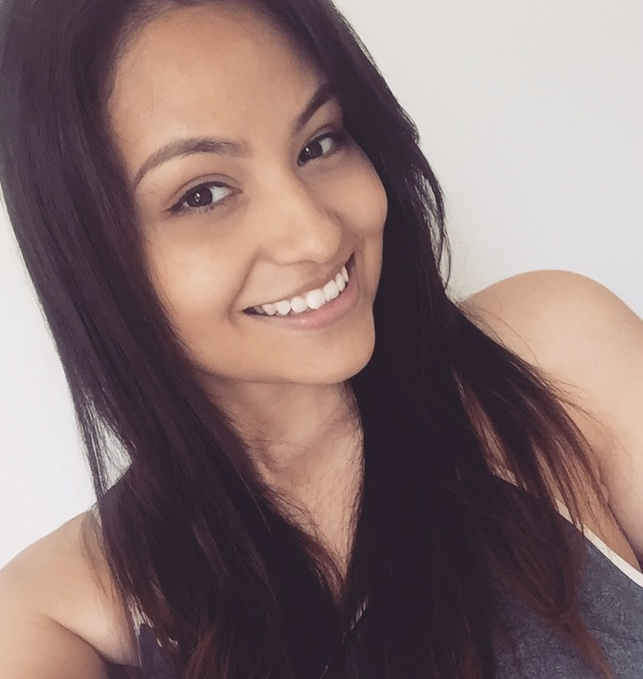
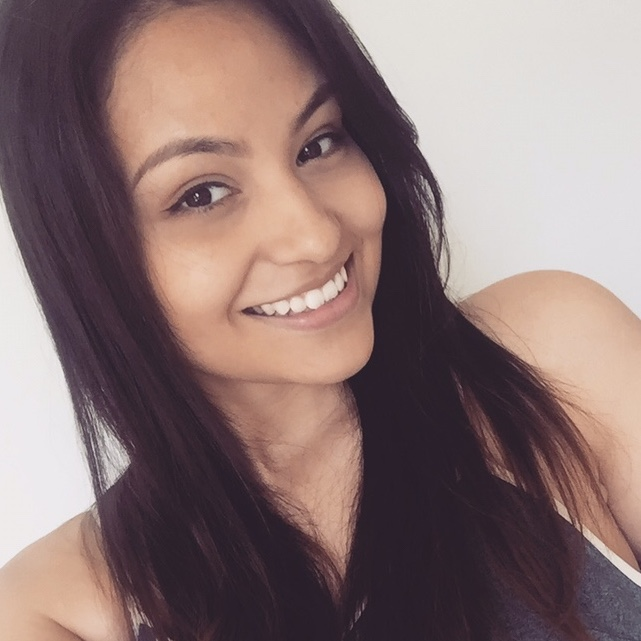
Crop images to squares

diff --git a/css/styles.min.css b/css/styles.min.css
@@ -1,1 +1,1 @@
-@import url(https://fonts.googleapis.com/css?family=Open+Sans:300italic,400italic,600italic,700italic,800italic,400,300,600,700,800);@import url(https://fonts.googleapis.com/css?family=Merriweather:400,300,400italic,300italic,700,700italic);@import url(https://fonts.googleapis.com/css?family=Nunito:400,300,700);@import url(https://fonts.googleapis.com/css?family=Cedarville+Cursive);p{font-size:15px;line-height:29px;color:rgba(12,23,36,0.9);padding-bottom:20px}h1{font-size:60px}h2{font-size:40px;font-weight:300;color:#3D4351}h3{color:#3D4351;font-size:18px;font-weight:700;text-transform:uppercase;letter-spacing:3px;line-height:29px}h4{font-size:18px}h5{font-size:15px;color:#3D4351;text-transform:uppercase;font-weight:500}.btn{font-size:13px;border:solid 2px;-moz-border-radius:40px;-webkit-border-radius:40px;border-radius:40px;display:inline-block;text-transform:uppercase}.btn:hover,.btn:focus{color:#fff;border-color:#186b6b;background-color:#186b6b}.btn-white{font-size:13px;border:solid 2px;-moz-border-radius:40px;-webkit-border-radius:40px;border-radius:40px;display:inline-block;border-color:#fff}.btn-dark{font-size:13px;border:solid 2px;-moz-border-radius:40px;-webkit-border-radius:40px;border-radius:40px;display:inline-block;border-color:rgba(12,23,36,0.9)}.btn-white:hover,.btn-white:focus{color:#186b6b;border-color:#186b6b}.btn-dark:hover,.btn-dark:focus{color:#186b6b;border-color:#186b6b}.btn-fill{color:#fff;border:solid 2px #186b6b;-moz-border-radius:40px;-webkit-border-radius:40px;border-radius:40px;display:inline-block;text-transform:uppercase;background-color:#186b6b}.btn-fill:hover,.btn-fill:focus{color:#fff;background-color:#a2eeee;border-color:#a2eeee}.btn-small{padding:8px 30px}.btn-large{padding:15px 40px}.btn-margin-right{margin-right:20px}section.intro,section.features-extra,section.rsvp{background:#fff}section.features,section.events,section.blog{background:#f8f9fd}.group:after{content:"";display:table;clear:both}.no-padding{padding:0}.no-margin{margin:0}a{color:#186b6b;-webkit-transition-timing-function:ease;transition-timing-function:ease;-webkit-transition-duration:200ms;transition-duration:200ms;-webkit-transition-property:color, border-color, background-color;transition-property:color, border-color, background-color}a:hover,a:focus{color:#a2eeee;text-decoration:none}body{font-family:"Open Sans",sans-serif;font-weight:300;color:rgba(12,23,36,0.9);-webkit-text-size-adjust:100%}*:focus{outline:none !important}ul,ol{margin:0;padding:0}ul li{list-style:none}section .header{padding-bottom:30px}.section-padding{padding:40px 0}.section-border{border-bottom:1px solid #E6E9EA}.tooltip{position:absolute;z-index:1070;display:block;font-family:"Helvetica Neue", Helvetica, Arial, sans-serif;font-size:12px;font-weight:normal;line-height:1.4;visibility:visible;filter:alpha(opacity=0);opacity:0}.tooltip.in{filter:alpha(opacity=90);opacity:.9}.tooltip.top{padding:5px 0;margin-top:-3px}.tooltip.right{padding:0 5px;margin-left:3px}.tooltip.bottom{padding:5px 0;margin-top:3px}.tooltip.left{padding:0 5px;margin-left:-3px}.tooltip-inner{max-width:200px;padding:3px 8px;color:#fff;text-align:center;text-decoration:none;text-transform:capitalize;background-color:#000;border-radius:4px}.pulse2{animation-name:pulse2;animation-duration:1s;animation-iteration-count:infinite;animation-timing-function:linear}@keyframes pulse2{0%{transform:scale(1.1)}50%{transform:scale(0.8)}100%{transform:scale(1)}}.floating-arrow{animation-name:floating-arrow;animation-duration:2s;animation-iteration-count:infinite;animation-timing-function:ease-in-out}@keyframes floating-arrow{from{transform:translate(-50%, 0)}65%{transform:translate(-50%, 15px)}to{transform:translate(-50%, 0)}}.floating-logo{animation-name:floating-logo;animation-duration:2s;animation-iteration-count:infinite;animation-timing-function:ease-in-out}@keyframes floating-logo{from{transform:translate(-50%, 0)}50%{transform:translate(-50%, 10px)}to{transform:translate(-50%, 0)}}.wp1,.wp2,.wp3,.wp4,.wp5,.wp6,.wp7,.wp8,.wp9{visibility:hidden}.wp8,.wp9{-webkit-animation-delay:0.3s;animation-delay:0.3s}.bounceInLeft,.bounceInRight,.fadeInUp,.fadeInUpDelay,.fadeInDown,.fadeInUpD,.fadeInLeft,.fadeInRight,.bounceInDown{visibility:visible}.header-nav.open{visibility:visible;opacity:0.9;-webkit-transition:opacity 0.5s;transition:opacity 0.5s}.nav-toggle{position:absolute;top:0;right:15px;z-index:999999;padding:10px 35px 16px 0;cursor:pointer}.nav-toggle:focus{outline:none}.nav-toggle span,.nav-toggle span:before,.nav-toggle span:after{content:"";position:absolute;display:block;width:35px;height:3px;-moz-border-radius:1px;-webkit-border-radius:1px;border-radius:1px;background:#000000;cursor:pointer}.fixed .nav-toggle span,.fixed .nav-toggle span:before,.fixed .nav-toggle span:after{background:#ffffff}.nav-toggle span:before{top:-10px}.nav-toggle span:after{bottom:-10px}.nav-toggle span,.nav-toggle span:before,.nav-toggle span:after{-moz-transition:all 300ms ease-in-out;-o-transition:all 300ms ease-in-out;-webkit-transition:all 300ms ease-in-out;transition:all 300ms ease-in-out}.nav-toggle.active span{background-color:transparent}.nav-toggle.active span:before,.nav-toggle.active span:after{top:0;background-color:#ffffff}.nav-toggle.active span:before{-moz-transform:rotate(45deg);-ms-transform:rotate(45deg);-o-transform:rotate(45deg);-webkit-transform:rotate(45deg);transform:rotate(45deg)}.nav-toggle.active span:after{top:10px;-moz-transform:translatey(-10px) rotate(-45deg);-ms-transform:translatey(-10px) rotate(-45deg);-o-transform:translatey(-10px) rotate(-45deg);-webkit-transform:translatey(-10px) rotate(-45deg);transform:translatey(-10px) rotate(-45deg)}.navicon{position:absolute;height:26px;right:10px;top:48px;visibility:hidden;transition:all 300ms ease-in-out}.hero{min-height:750px;background:url("../img/hero-min.jpg") center center;-webkit-background-size:cover;-moz-background-size:cover;-o-background-size:cover;background-size:cover;position:relative}.hero .down-arrow a{color:#fff}.hero h1{color:#fff;margin-bottom:40px}.hero p.intro{color:#fff;font-size:20px;font-weight:300;margin-bottom:80px}.hero .hero-content{padding-top:40%}.hero .hero-content img{width:55%;margin-bottom:12%;margin-top:10%}.navigation{transition:all 300ms ease-in-out;position:fixed;width:100%;z-index:999}.fixed{position:fixed;background-color:rgba(12,23,36,0.9);z-index:999;width:100%}.fixed a{color:#fff}header{padding:50px 0;border-bottom:solid 1px rgba(255,255,255,0.2);position:relative;width:1170px;margin:0 auto;transition:padding 300ms ease-in-out}header a{color:rgba(12,23,36,0.9);text-transform:uppercase;font-size:13px}header a.login{margin-right:20px}header .logo{display:inline-block}header .logo img{height:42px;width:42px}header ul.primary-nav{margin:0 0 0 75px;padding:0}header ul.primary-nav li{display:inline}header ul.primary-nav li a{padding-right:25px}header ul.primary-nav li a:hover{color:#a2eeee}header ul.primary-nav li:last-child a{padding-right:0px}header ul.member-actions li{display:inline}header ul.member-actions li a:hover{color:#a2eeee}header .header-nav{display:inline-block}header .member-actions{position:absolute;right:0;top:41px;transition:all 300ms ease-in-out}.down-arrow{color:#fff;font-size:30px;position:absolute;bottom:30px;left:50%;transform:translateX(-50%)}.share-bar{margin-top:20px}.intro span.icon{font-size:40px;color:#186b6b;font-weight:bold}.intro-icon{display:inline-block;vertical-align:top;padding:6px 0 0 0;margin-right:20px;width:40px}.intro-content{display:inline-block;width:80%}#intro{padding-top:40px}#intro img{width:100%;height:auto}#intro img.meet-pic{margin-bottom:10px;width:100%;height:200px;object-fit:cover;object-position:center;border-radius:4px}#intro img.meet-pic.top{object-position:top}#intro img.meet-pic.bottom{object-position:bottom}#intro img.meet-pic.center{object-position:center}#intro .small-meet-img-container{display:flex;flex-direction:row;flex-wrap:wrap}#intro .small-meet-img-container .fancybox{flex:1;margin:1px}#intro .small-meet-img-container .img-wrap{margin-top:30px;position:relative;overflow:hidden;border-radius:4px}#intro .small-meet-img-container .img-wrap img{border-radius:4px;width:100px;height:66.66667px;object-fit:cover;object-position:center}#intro .small-meet-img-container .img-wrap .overlay{position:absolute;width:100%;height:100%;background-color:rgba(255,255,255,0.5);-moz-transition:all 300ms ease-in-out;-o-transition:all 300ms ease-in-out;-webkit-transition:all 300ms ease-in-out;transition:all 300ms ease-in-out;-ms-filter:"progid:DXImageTransform.Microsoft.Alpha(Opacity=0)";filter:alpha(opacity=0);opacity:0}#intro .small-meet-img-container .img-wrap i{color:#fff;font-size:15px;position:absolute;width:15px;height:15px;top:6px;right:6px}#intro .small-meet-img-container .img-wrap:hover img,#intro .small-meet-img-container .img-wrap:focus img{-moz-transform:scale(1.1);-ms-transform:scale(1.1);-o-transform:scale(1.1);-webkit-transform:scale(1.1);transform:scale(1.1)}#intro .small-meet-img-container .img-wrap:hover .overlay,#intro .small-meet-img-container .img-wrap:focus .overlay{-ms-filter:"progid:DXImageTransform.Microsoft.Alpha(Opacity=1)";filter:alpha(opacity=1);opacity:1;z-index:9}#intro p{text-align:center}.features{position:relative}.features p{margin-bottom:0;padding-bottom:0}.features h3{margin:0 0 20px 0}.features span.icon{font-size:35px;color:#186b6b;font-weight:bold}.features .feature-icon{display:inline-block;vertical-align:top;padding:6px 0 0 0;margin-right:20px;width:35px}.features .feature-content{display:inline-block;width:75%}.features .intro-icon{display:inline-block;vertical-align:top;padding:6px 0 0 0;margin-right:20px}.features .intro-content{display:inline-block;width:80%}.features ul.features-stack{margin-top:50px}.features ul.features-stack li{margin-top:20px;padding-bottom:20px;border-bottom:solid 1px #E6E9EA}.features ul.features-stack li:last-child{padding-bottom:0px;border-bottom:none}.features .ipad-wrap{width:706px;height:1002px;background:url("../img/ipad-device.png") no-repeat center center;z-index:1}.features .iphone-wrap{width:304px;height:620px;background:url("../img/iphone6.png") no-repeat center center;position:absolute;left:530px;bottom:129px;z-index:2}.features .device-showcase{position:absolute;bottom:-365px;right:61%}.features .responsive-feature-img,.features-extra .responsive-feature-img{display:none}.devices{position:relative}.features-extra{position:relative;z-index:3}.features-extra .btn{margin-top:20px}.features-extra .macbook-wrap{position:absolute;width:916px;height:540px;background:url("../img/macbook-pro.png") no-repeat center center;top:114px;z-index:4;left:50%}.hero-strip{margin-top:120px;background:#333844 url("../img/polygonal-bg.jpg") no-repeat center center;padding-bottom:190px;position:relative}.hero-strip i{font-family:"Nunito",sans-serif;font-weight:300;font-size:25px;color:#F69D52;vertical-align:top;margin-left:-8px;font-style:normal}.hero-strip h2{color:#fff;margin:0 0 20px 0}.hero-strip p{color:#ACB1B4}.hero-strip .btn{margin-top:10px}.hero-strip .logo-placeholder{width:230px;height:230px;position:absolute;bottom:-285px;left:50%;transform:translateX(-50%)}.wedding-party .party-card{margin-bottom:30px}.wedding-party .party-card .party-img{width:100%;height:400px;object-fit:cover;object-position:center}.wedding-party .party-card .party-img.top{object-position:top}.wedding-party .party-card .party-img.bottom{object-position:bottom}.wedding-party .party-card .party-img.center{object-position:center}.wedding-party .party-card .party-name{font-family:'Cedarville Cursive', cursive;text-transform:none;margin-bottom:0;color:rgba(12,23,36,0.9);font-size:17pt}.wedding-party .party-card .party-title{font-size:8pt;margin-bottom:0;padding-bottom:0;color:#3D4351}.events .leftcol{padding-right:100px;border-right:solid 1px #E6E9EA}.events .rightcol{padding-left:100px}.events .time{font-size:13px;font-style:italic;text-transform:lowercase;color:rgba(12,23,36,0.9)}.blog{padding-bottom:120px}.blog img{width:100%;height:auto;-moz-transition:all 300ms ease-in-out;-o-transition:all 300ms ease-in-out;-webkit-transition:all 300ms ease-in-out;transition:all 300ms ease-in-out}.blog h2{font-size:11px;color:#ACB1B4;font-weight:500;text-transform:uppercase;margin-top:35px}.blog .btn{margin-top:20px}.blog .blog-img-wrap{position:relative;overflow:hidden}.blog .blog-img-wrap .overlay{position:absolute;width:100%;height:100%;background-color:rgba(255,255,255,0.5);-moz-transition:all 300ms ease-in-out;-o-transition:all 300ms ease-in-out;-webkit-transition:all 300ms ease-in-out;transition:all 300ms ease-in-out;-ms-filter:"progid:DXImageTransform.Microsoft.Alpha(Opacity=0)";filter:alpha(opacity=0);opacity:0}.blog .blog-img-wrap i{color:#fff;font-size:20px;position:absolute;width:20px;height:20px;top:25px;right:35px}.blog .blog-img-wrap:hover img,.blog .blog-img-wrap:focus img{-moz-transform:scale(1.1);-ms-transform:scale(1.1);-o-transform:scale(1.1);-webkit-transform:scale(1.1);transform:scale(1.1)}.blog .blog-img-wrap:hover .overlay,.blog .blog-img-wrap:focus .overlay{-ms-filter:"progid:DXImageTransform.Microsoft.Alpha(Opacity=1)";filter:alpha(opacity=1);opacity:1;z-index:9}.blog figcaption i{margin-left:5px;font-size:15px}.blog figcaption a.blog-post-title{color:rgba(12,23,36,0.9)}.blog figcaption a.blog-post-title:hover,.blog figcaption a.blog-post-title:focus{color:#3D4351}#instagram img{width:100%}#eng-pics img{width:100%;height:auto;-moz-transition:all 300ms ease-in-out;-o-transition:all 300ms ease-in-out;-webkit-transition:all 300ms ease-in-out;transition:all 300ms ease-in-out}#eng-pics .img-wrap{margin-top:30px;position:relative;overflow:hidden;border-radius:4px}#eng-pics .img-wrap .overlay{position:absolute;width:100%;height:100%;background-color:rgba(255,255,255,0.5);-moz-transition:all 300ms ease-in-out;-o-transition:all 300ms ease-in-out;-webkit-transition:all 300ms ease-in-out;transition:all 300ms ease-in-out;-ms-filter:"progid:DXImageTransform.Microsoft.Alpha(Opacity=0)";filter:alpha(opacity=0);opacity:0}#eng-pics .img-wrap i{color:#fff;font-size:15px;position:absolute;width:15px;height:15px;top:6px;right:6px}#eng-pics .img-wrap:hover img,#eng-pics .img-wrap:focus img{-moz-transform:scale(1.1);-ms-transform:scale(1.1);-o-transform:scale(1.1);-webkit-transform:scale(1.1);transform:scale(1.1)}#eng-pics .img-wrap:hover .overlay,#eng-pics .img-wrap:focus .overlay{-ms-filter:"progid:DXImageTransform.Microsoft.Alpha(Opacity=1)";filter:alpha(opacity=1);opacity:1;z-index:9}#eng-pics .diamond{width:230px;height:230px;position:absolute;bottom:-145px;left:50%;transform:translateX(-50%);z-index:500}#eng-pics .ring{width:75px;height:75px;border-radius:75px;border:10px solid #d0d3d4;position:absolute;left:34%;top:75%;z-index:-1}#video-bg{height:300px}#video-bg .smokies{background-image:url("../img/smokies.jpg");height:300px}#video-bg .smokies .no-video-content{width:100%;height:100%;padding-top:100px;position:relative;text-align:center}#video-bg .smokies .no-video-content h5{color:#ffffff;font-size:30px;font-weight:300;letter-spacing:10px}#video-bg .smokies .no-video-content p{color:#ffffff}#video-content{width:100%;height:100%;padding-top:100px;position:relative;text-align:center}#video-content h5{color:#ffffff;font-size:30px;font-weight:300;letter-spacing:10px}#video-content p{color:#ffffff}#map-canvas{height:500px;width:100%}#map-content-wrapper{position:relative;margin-top:-502px;margin-bottom:150px}#map-content{margin-top:40px;padding:50px 60px;background:#fff;-webkit-transition:opacity 0.5s, visibility 0.6s, margin-top 0.5s;transition:opacity 0.5s, visibility 0.6s, margin-top 0.5s}#map-content .contact-info{align-items:center;display:flex;flex-direction:column}#btn-show-content{padding:20px;background:#fff;cursor:pointer;display:inline-block;-webkit-transition:opacity 0.5s, visibility 0.6s, margin-top 0.5s;transition:opacity 0.5s, visibility 0.6s, margin-top 0.5s}.toggle-map-content{opacity:0;visibility:hidden}.pointer-events-none{pointer-events:none}.pointer-events-auto{pointer-events:auto}.rsvp{padding-bottom:140px}.rsvp .rsvp-form .rsvp-btn,.rsvp .rsvp-form .rsvp-no-btn{padding:15px 0;border-radius:3px;font-size:13px}.rsvp .rsvp-form .rsvp-no-btn{background-color:#ff415c}.rsvp .rsvp-form .form-input-group{width:100%;height:55px;margin:0 auto 10px;-moz-border-radius:5px;-webkit-border-radius:5px;border-radius:5px;border:solid 1px #E6E9EA;text-align:left;position:relative}.rsvp .rsvp-form .form-input-group i{color:#186b6b;font-size:14px}.rsvp .rsvp-form .form-input-group i:after{content:"";height:30px;width:1px;border-right:solid 1px #E6E9EA;position:absolute;top:50%;left:30px;transform:translateY(-50%)}.rsvp .rsvp-form .form-input-group i.fa-user,.rsvp .rsvp-form .form-input-group i.fa-users,.rsvp .rsvp-form .form-input-group i.fa-envelope,.rsvp .rsvp-form .form-input-group .fa-key{font-size:14px;position:absolute;top:50%;transform:translateY(-50%);margin-left:20px}.rsvp .rsvp-form .form-input-group input{padding-left:68px;width:100%;height:100%;-moz-border-radius:6px;-webkit-border-radius:6px;border-radius:6px;border:none}.rsvp .rsvp-form .form-input-group input::-webkit-input-placeholder{color:#BCC1C3}.rsvp .rsvp-form .form-input-group input:-moz-placeholder{color:#BCC1C3}.rsvp .rsvp-form .form-input-group input::-moz-placeholder{color:#BCC1C3}.rsvp .rsvp-form .form-input-group input:-ms-input-placeholder{color:#BCC1C3}.registry .registry-link-container .registry-img{height:100px}footer .content{border-top:1px solid #E6E9EA;padding-bottom:20px}footer .to-top-wrapper{font-size:30px;display:block;cursor:pointer;margin:-25px auto 50px;border-radius:50%;width:50px;height:50px;border:1px solid #E6E9EA;background:#fff}footer .to-top-wrapper .to-top{display:block;-webkit-transition:all .3s ease-in-out;-moz-transition:all .3s ease-in-out;-ms-transition:all .3s ease-in-out;-o-transition:all .3s ease-in-out;transition:all .3s ease-in-out}footer .to-top-wrapper .to-top:hover{margin-top:-5px}footer span.fa-heart{color:#ff415c;font-size:18px;margin:0 2px}body.modal-open{padding-right:0 !important}.modal-body{padding:25px}
+@import url(https://fonts.googleapis.com/css?family=Open+Sans:300italic,400italic,600italic,700italic,800italic,400,300,600,700,800);@import url(https://fonts.googleapis.com/css?family=Merriweather:400,300,400italic,300italic,700,700italic);@import url(https://fonts.googleapis.com/css?family=Nunito:400,300,700);@import url(https://fonts.googleapis.com/css?family=Cedarville+Cursive);p{font-size:15px;line-height:29px;color:rgba(12,23,36,0.9);padding-bottom:20px}h1{font-size:60px}h2{font-size:40px;font-weight:300;color:#3D4351}h3{color:#3D4351;font-size:18px;font-weight:700;text-transform:uppercase;letter-spacing:3px;line-height:29px}h4{font-size:18px}h5{font-size:15px;color:#3D4351;text-transform:uppercase;font-weight:500}.btn{font-size:13px;border:solid 2px;-moz-border-radius:40px;-webkit-border-radius:40px;border-radius:40px;display:inline-block;text-transform:uppercase}.btn:hover,.btn:focus{color:#fff;border-color:#186b6b;background-color:#186b6b}.btn-white{font-size:13px;border:solid 2px;-moz-border-radius:40px;-webkit-border-radius:40px;border-radius:40px;display:inline-block;border-color:#fff}.btn-dark{font-size:13px;border:solid 2px;-moz-border-radius:40px;-webkit-border-radius:40px;border-radius:40px;display:inline-block;border-color:rgba(12,23,36,0.9)}.btn-white:hover,.btn-white:focus{color:#186b6b;border-color:#186b6b}.btn-dark:hover,.btn-dark:focus{color:#186b6b;border-color:#186b6b}.btn-fill{color:#fff;border:solid 2px #186b6b;-moz-border-radius:40px;-webkit-border-radius:40px;border-radius:40px;display:inline-block;text-transform:uppercase;background-color:#186b6b}.btn-fill:hover,.btn-fill:focus{color:#fff;background-color:#a2eeee;border-color:#a2eeee}.btn-small{padding:8px 30px}.btn-large{padding:15px 40px}.btn-margin-right{margin-right:20px}section.intro,section.features-extra,section.rsvp{background:#fff}section.features,section.events,section.blog{background:#f8f9fd}.group:after{content:"";display:table;clear:both}.no-padding{padding:0}.no-margin{margin:0}a{color:#186b6b;-webkit-transition-timing-function:ease;transition-timing-function:ease;-webkit-transition-duration:200ms;transition-duration:200ms;-webkit-transition-property:color, border-color, background-color;transition-property:color, border-color, background-color}a:hover,a:focus{color:#a2eeee;text-decoration:none}body{font-family:"Open Sans",sans-serif;font-weight:300;color:rgba(12,23,36,0.9);-webkit-text-size-adjust:100%}*:focus{outline:none !important}ul,ol{margin:0;padding:0}ul li{list-style:none}section .header{padding-bottom:30px}.section-padding{padding:40px 0}.section-border{border-bottom:1px solid #E6E9EA}.tooltip{position:absolute;z-index:1070;display:block;font-family:"Helvetica Neue", Helvetica, Arial, sans-serif;font-size:12px;font-weight:normal;line-height:1.4;visibility:visible;filter:alpha(opacity=0);opacity:0}.tooltip.in{filter:alpha(opacity=90);opacity:.9}.tooltip.top{padding:5px 0;margin-top:-3px}.tooltip.right{padding:0 5px;margin-left:3px}.tooltip.bottom{padding:5px 0;margin-top:3px}.tooltip.left{padding:0 5px;margin-left:-3px}.tooltip-inner{max-width:200px;padding:3px 8px;color:#fff;text-align:center;text-decoration:none;text-transform:capitalize;background-color:#000;border-radius:4px}.pulse2{animation-name:pulse2;animation-duration:1s;animation-iteration-count:infinite;animation-timing-function:linear}@keyframes pulse2{0%{transform:scale(1.1)}50%{transform:scale(0.8)}100%{transform:scale(1)}}.floating-arrow{animation-name:floating-arrow;animation-duration:2s;animation-iteration-count:infinite;animation-timing-function:ease-in-out}@keyframes floating-arrow{from{transform:translate(-50%, 0)}65%{transform:translate(-50%, 15px)}to{transform:translate(-50%, 0)}}.floating-logo{animation-name:floating-logo;animation-duration:2s;animation-iteration-count:infinite;animation-timing-function:ease-in-out}@keyframes floating-logo{from{transform:translate(-50%, 0)}50%{transform:translate(-50%, 10px)}to{transform:translate(-50%, 0)}}.wp1,.wp2,.wp3,.wp4,.wp5,.wp6,.wp7,.wp8,.wp9{visibility:hidden}.wp8,.wp9{-webkit-animation-delay:0.3s;animation-delay:0.3s}.bounceInLeft,.bounceInRight,.fadeInUp,.fadeInUpDelay,.fadeInDown,.fadeInUpD,.fadeInLeft,.fadeInRight,.bounceInDown{visibility:visible}.header-nav.open{visibility:visible;opacity:0.9;-webkit-transition:opacity 0.5s;transition:opacity 0.5s}.nav-toggle{position:absolute;top:0;right:15px;z-index:999999;padding:10px 35px 16px 0;cursor:pointer}.nav-toggle:focus{outline:none}.nav-toggle span,.nav-toggle span:before,.nav-toggle span:after{content:"";position:absolute;display:block;width:35px;height:3px;-moz-border-radius:1px;-webkit-border-radius:1px;border-radius:1px;background:#000000;cursor:pointer}.fixed .nav-toggle span,.fixed .nav-toggle span:before,.fixed .nav-toggle span:after{background:#ffffff}.nav-toggle span:before{top:-10px}.nav-toggle span:after{bottom:-10px}.nav-toggle span,.nav-toggle span:before,.nav-toggle span:after{-moz-transition:all 300ms ease-in-out;-o-transition:all 300ms ease-in-out;-webkit-transition:all 300ms ease-in-out;transition:all 300ms ease-in-out}.nav-toggle.active span{background-color:transparent}.nav-toggle.active span:before,.nav-toggle.active span:after{top:0;background-color:#ffffff}.nav-toggle.active span:before{-moz-transform:rotate(45deg);-ms-transform:rotate(45deg);-o-transform:rotate(45deg);-webkit-transform:rotate(45deg);transform:rotate(45deg)}.nav-toggle.active span:after{top:10px;-moz-transform:translatey(-10px) rotate(-45deg);-ms-transform:translatey(-10px) rotate(-45deg);-o-transform:translatey(-10px) rotate(-45deg);-webkit-transform:translatey(-10px) rotate(-45deg);transform:translatey(-10px) rotate(-45deg)}.navicon{position:absolute;height:26px;right:10px;top:48px;visibility:hidden;transition:all 300ms ease-in-out}.hero{min-height:750px;background:url("../img/hero-min.jpg") center center;-webkit-background-size:cover;-moz-background-size:cover;-o-background-size:cover;background-size:cover;position:relative}.hero .down-arrow a{color:#fff}.hero h1{color:#fff;margin-bottom:40px}.hero p.intro{color:#fff;font-size:20px;font-weight:300;margin-bottom:80px}.hero .hero-content{padding-top:40%}.hero .hero-content img{width:55%;margin-bottom:12%;margin-top:10%}.navigation{transition:all 300ms ease-in-out;position:fixed;width:100%;z-index:999}.fixed{position:fixed;background-color:rgba(12,23,36,0.9);z-index:999;width:100%}.fixed a{color:#fff}header{padding:50px 0;border-bottom:solid 1px rgba(255,255,255,0.2);position:relative;width:1170px;margin:0 auto;transition:padding 300ms ease-in-out}header a{color:rgba(12,23,36,0.9);text-transform:uppercase;font-size:13px}header a.login{margin-right:20px}header .logo{display:inline-block}header .logo img{height:42px;width:42px}header ul.primary-nav{margin:0 0 0 75px;padding:0}header ul.primary-nav li{display:inline}header ul.primary-nav li a{padding-right:25px}header ul.primary-nav li a:hover{color:#a2eeee}header ul.primary-nav li:last-child a{padding-right:0px}header ul.member-actions li{display:inline}header ul.member-actions li a:hover{color:#a2eeee}header .header-nav{display:inline-block}header .member-actions{position:absolute;right:0;top:41px;transition:all 300ms ease-in-out}.down-arrow{color:#fff;font-size:30px;position:absolute;bottom:30px;left:50%;transform:translateX(-50%)}.share-bar{margin-top:20px}.intro span.icon{font-size:40px;color:#186b6b;font-weight:bold}.intro-icon{display:inline-block;vertical-align:top;padding:6px 0 0 0;margin-right:20px;width:40px}.intro-content{display:inline-block;width:80%}#intro{padding-top:40px}#intro img{width:100%;height:auto}#intro img.meet-pic{margin-bottom:10px;width:100%;height:200px;object-fit:cover;object-position:center;border-radius:4px}#intro img.meet-pic.top{object-position:top}#intro img.meet-pic.bottom{object-position:bottom}#intro img.meet-pic.center{object-position:center}#intro .small-meet-img-container{display:flex;flex-direction:row;flex-wrap:wrap}#intro .small-meet-img-container .fancybox{flex:1;margin:1px}#intro .small-meet-img-container .img-wrap{margin-top:30px;position:relative;overflow:hidden;border-radius:4px}#intro .small-meet-img-container .img-wrap img{border-radius:4px;width:100px;height:66.66667px;object-fit:cover;object-position:center}#intro .small-meet-img-container .img-wrap .overlay{position:absolute;width:100%;height:100%;background-color:rgba(255,255,255,0.5);-moz-transition:all 300ms ease-in-out;-o-transition:all 300ms ease-in-out;-webkit-transition:all 300ms ease-in-out;transition:all 300ms ease-in-out;-ms-filter:"progid:DXImageTransform.Microsoft.Alpha(Opacity=0)";filter:alpha(opacity=0);opacity:0}#intro .small-meet-img-container .img-wrap i{color:#fff;font-size:15px;position:absolute;width:15px;height:15px;top:6px;right:6px}#intro .small-meet-img-container .img-wrap:hover img,#intro .small-meet-img-container .img-wrap:focus img{-moz-transform:scale(1.1);-ms-transform:scale(1.1);-o-transform:scale(1.1);-webkit-transform:scale(1.1);transform:scale(1.1)}#intro .small-meet-img-container .img-wrap:hover .overlay,#intro .small-meet-img-container .img-wrap:focus .overlay{-ms-filter:"progid:DXImageTransform.Microsoft.Alpha(Opacity=1)";filter:alpha(opacity=1);opacity:1;z-index:9}#intro p{text-align:center}.features{position:relative}.features p{margin-bottom:0;padding-bottom:0}.features h3{margin:0 0 20px 0}.features span.icon{font-size:35px;color:#186b6b;font-weight:bold}.features .feature-icon{display:inline-block;vertical-align:top;padding:6px 0 0 0;margin-right:20px;width:35px}.features .feature-content{display:inline-block;width:75%}.features .intro-icon{display:inline-block;vertical-align:top;padding:6px 0 0 0;margin-right:20px}.features .intro-content{display:inline-block;width:80%}.features ul.features-stack{margin-top:50px}.features ul.features-stack li{margin-top:20px;padding-bottom:20px;border-bottom:solid 1px #E6E9EA}.features ul.features-stack li:last-child{padding-bottom:0px;border-bottom:none}.features .ipad-wrap{width:706px;height:1002px;background:url("../img/ipad-device.png") no-repeat center center;z-index:1}.features .iphone-wrap{width:304px;height:620px;background:url("../img/iphone6.png") no-repeat center center;position:absolute;left:530px;bottom:129px;z-index:2}.features .device-showcase{position:absolute;bottom:-365px;right:61%}.features .responsive-feature-img,.features-extra .responsive-feature-img{display:none}.devices{position:relative}.features-extra{position:relative;z-index:3}.features-extra .btn{margin-top:20px}.features-extra .macbook-wrap{position:absolute;width:916px;height:540px;background:url("../img/macbook-pro.png") no-repeat center center;top:114px;z-index:4;left:50%}.hero-strip{margin-top:120px;background:#333844 url("../img/polygonal-bg.jpg") no-repeat center center;padding-bottom:190px;position:relative}.hero-strip i{font-family:"Nunito",sans-serif;font-weight:300;font-size:25px;color:#F69D52;vertical-align:top;margin-left:-8px;font-style:normal}.hero-strip h2{color:#fff;margin:0 0 20px 0}.hero-strip p{color:#ACB1B4}.hero-strip .btn{margin-top:10px}.hero-strip .logo-placeholder{width:230px;height:230px;position:absolute;bottom:-285px;left:50%;transform:translateX(-50%)}.wedding-party .party-card{margin-bottom:30px}.wedding-party .party-card .party-img{object-fit:cover;object-position:center}.wedding-party .party-card .party-img.top{object-position:top}.wedding-party .party-card .party-img.bottom{object-position:bottom}.wedding-party .party-card .party-img.center{object-position:center}.wedding-party .party-card .party-name{font-family:'Cedarville Cursive', cursive;text-transform:none;margin-bottom:0;color:rgba(12,23,36,0.9);font-size:17pt}.wedding-party .party-card .party-title{font-size:8pt;margin-bottom:0;padding-bottom:0;color:#3D4351}.events .leftcol{padding-right:100px;border-right:solid 1px #E6E9EA}.events .rightcol{padding-left:100px}.events .time{font-size:13px;font-style:italic;text-transform:lowercase;color:rgba(12,23,36,0.9)}.blog{padding-bottom:120px}.blog img{width:100%;height:auto;-moz-transition:all 300ms ease-in-out;-o-transition:all 300ms ease-in-out;-webkit-transition:all 300ms ease-in-out;transition:all 300ms ease-in-out}.blog h2{font-size:11px;color:#ACB1B4;font-weight:500;text-transform:uppercase;margin-top:35px}.blog .btn{margin-top:20px}.blog .blog-img-wrap{position:relative;overflow:hidden}.blog .blog-img-wrap .overlay{position:absolute;width:100%;height:100%;background-color:rgba(255,255,255,0.5);-moz-transition:all 300ms ease-in-out;-o-transition:all 300ms ease-in-out;-webkit-transition:all 300ms ease-in-out;transition:all 300ms ease-in-out;-ms-filter:"progid:DXImageTransform.Microsoft.Alpha(Opacity=0)";filter:alpha(opacity=0);opacity:0}.blog .blog-img-wrap i{color:#fff;font-size:20px;position:absolute;width:20px;height:20px;top:25px;right:35px}.blog .blog-img-wrap:hover img,.blog .blog-img-wrap:focus img{-moz-transform:scale(1.1);-ms-transform:scale(1.1);-o-transform:scale(1.1);-webkit-transform:scale(1.1);transform:scale(1.1)}.blog .blog-img-wrap:hover .overlay,.blog .blog-img-wrap:focus .overlay{-ms-filter:"progid:DXImageTransform.Microsoft.Alpha(Opacity=1)";filter:alpha(opacity=1);opacity:1;z-index:9}.blog figcaption i{margin-left:5px;font-size:15px}.blog figcaption a.blog-post-title{color:rgba(12,23,36,0.9)}.blog figcaption a.blog-post-title:hover,.blog figcaption a.blog-post-title:focus{color:#3D4351}#instagram img{width:100%}#eng-pics img{width:100%;height:auto;-moz-transition:all 300ms ease-in-out;-o-transition:all 300ms ease-in-out;-webkit-transition:all 300ms ease-in-out;transition:all 300ms ease-in-out}#eng-pics .img-wrap{margin-top:30px;position:relative;overflow:hidden;border-radius:4px}#eng-pics .img-wrap .overlay{position:absolute;width:100%;height:100%;background-color:rgba(255,255,255,0.5);-moz-transition:all 300ms ease-in-out;-o-transition:all 300ms ease-in-out;-webkit-transition:all 300ms ease-in-out;transition:all 300ms ease-in-out;-ms-filter:"progid:DXImageTransform.Microsoft.Alpha(Opacity=0)";filter:alpha(opacity=0);opacity:0}#eng-pics .img-wrap i{color:#fff;font-size:15px;position:absolute;width:15px;height:15px;top:6px;right:6px}#eng-pics .img-wrap:hover img,#eng-pics .img-wrap:focus img{-moz-transform:scale(1.1);-ms-transform:scale(1.1);-o-transform:scale(1.1);-webkit-transform:scale(1.1);transform:scale(1.1)}#eng-pics .img-wrap:hover .overlay,#eng-pics .img-wrap:focus .overlay{-ms-filter:"progid:DXImageTransform.Microsoft.Alpha(Opacity=1)";filter:alpha(opacity=1);opacity:1;z-index:9}#eng-pics .diamond{width:230px;height:230px;position:absolute;bottom:-145px;left:50%;transform:translateX(-50%);z-index:500}#eng-pics .ring{width:75px;height:75px;border-radius:75px;border:10px solid #d0d3d4;position:absolute;left:34%;top:75%;z-index:-1}#video-bg{height:300px}#video-bg .smokies{background-image:url("../img/smokies.jpg");height:300px}#video-bg .smokies .no-video-content{width:100%;height:100%;padding-top:100px;position:relative;text-align:center}#video-bg .smokies .no-video-content h5{color:#ffffff;font-size:30px;font-weight:300;letter-spacing:10px}#video-bg .smokies .no-video-content p{color:#ffffff}#video-content{width:100%;height:100%;padding-top:100px;position:relative;text-align:center}#video-content h5{color:#ffffff;font-size:30px;font-weight:300;letter-spacing:10px}#video-content p{color:#ffffff}#map-canvas{height:500px;width:100%}#map-content-wrapper{position:relative;margin-top:-502px;margin-bottom:150px}#map-content{margin-top:40px;padding:50px 60px;background:#fff;-webkit-transition:opacity 0.5s, visibility 0.6s, margin-top 0.5s;transition:opacity 0.5s, visibility 0.6s, margin-top 0.5s}#map-content .contact-info{align-items:center;display:flex;flex-direction:column}#btn-show-content{padding:20px;background:#fff;cursor:pointer;display:inline-block;-webkit-transition:opacity 0.5s, visibility 0.6s, margin-top 0.5s;transition:opacity 0.5s, visibility 0.6s, margin-top 0.5s}.toggle-map-content{opacity:0;visibility:hidden}.pointer-events-none{pointer-events:none}.pointer-events-auto{pointer-events:auto}.rsvp{padding-bottom:140px}.rsvp .rsvp-form .rsvp-btn,.rsvp .rsvp-form .rsvp-no-btn{padding:15px 0;border-radius:3px;font-size:13px}.rsvp .rsvp-form .rsvp-no-btn{background-color:#ff415c}.rsvp .rsvp-form .form-input-group{width:100%;height:55px;margin:0 auto 10px;-moz-border-radius:5px;-webkit-border-radius:5px;border-radius:5px;border:solid 1px #E6E9EA;text-align:left;position:relative}.rsvp .rsvp-form .form-input-group i{color:#186b6b;font-size:14px}.rsvp .rsvp-form .form-input-group i:after{content:"";height:30px;width:1px;border-right:solid 1px #E6E9EA;position:absolute;top:50%;left:30px;transform:translateY(-50%)}.rsvp .rsvp-form .form-input-group i.fa-user,.rsvp .rsvp-form .form-input-group i.fa-users,.rsvp .rsvp-form .form-input-group i.fa-envelope,.rsvp .rsvp-form .form-input-group .fa-key{font-size:14px;position:absolute;top:50%;transform:translateY(-50%);margin-left:20px}.rsvp .rsvp-form .form-input-group input{padding-left:68px;width:100%;height:100%;-moz-border-radius:6px;-webkit-border-radius:6px;border-radius:6px;border:none}.rsvp .rsvp-form .form-input-group input::-webkit-input-placeholder{color:#BCC1C3}.rsvp .rsvp-form .form-input-group input:-moz-placeholder{color:#BCC1C3}.rsvp .rsvp-form .form-input-group input::-moz-placeholder{color:#BCC1C3}.rsvp .rsvp-form .form-input-group input:-ms-input-placeholder{color:#BCC1C3}.registry .registry-link-container .registry-img{height:100px}footer .content{border-top:1px solid #E6E9EA;padding-bottom:20px}footer .to-top-wrapper{font-size:30px;display:block;cursor:pointer;margin:-25px auto 50px;border-radius:50%;width:50px;height:50px;border:1px solid #E6E9EA;background:#fff}footer .to-top-wrapper .to-top{display:block;-webkit-transition:all .3s ease-in-out;-moz-transition:all .3s ease-in-out;-ms-transition:all .3s ease-in-out;-o-transition:all .3s ease-in-out;transition:all .3s ease-in-out}footer .to-top-wrapper .to-top:hover{margin-top:-5px}footer span.fa-heart{color:#ff415c;font-size:18px;margin:0 2px}body.modal-open{padding-right:0 !important}.modal-body{padding:25px}

diff --git a/sass/styles.scss b/sass/styles.scss
@@ -643,8 +643,6 @@ Features-stack
   .party-card {
     margin-bottom: 30px;
     .party-img {
-      width: 100%;
-      height: 400px;
       object-fit: cover;
       object-position: center;
 
@@ -657,6 +655,7 @@ Features-stack
       &.center {
         object-position: center;
       }
+
     }
     .party-name {
       font-family: 'Cedarville Cursive', cursive;
